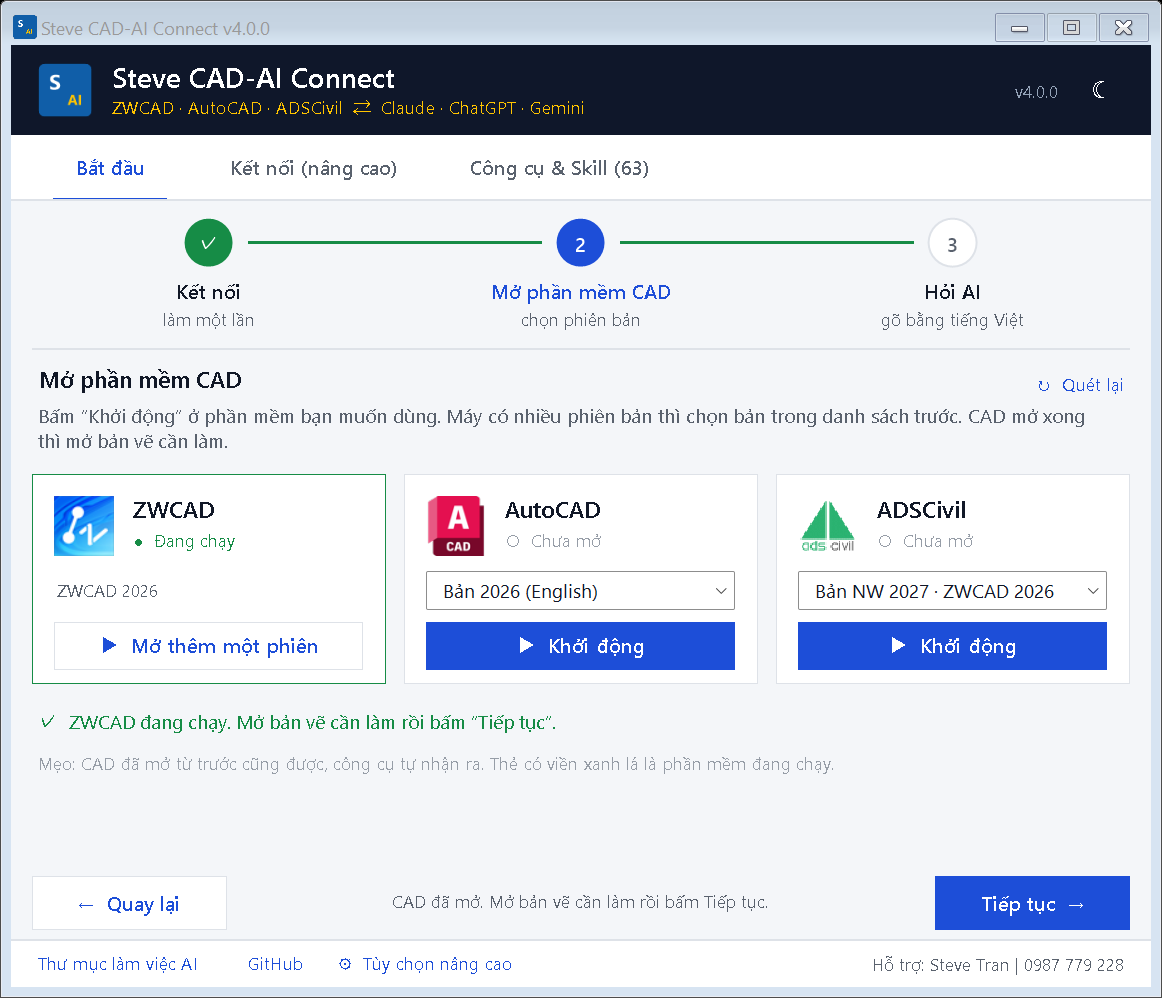
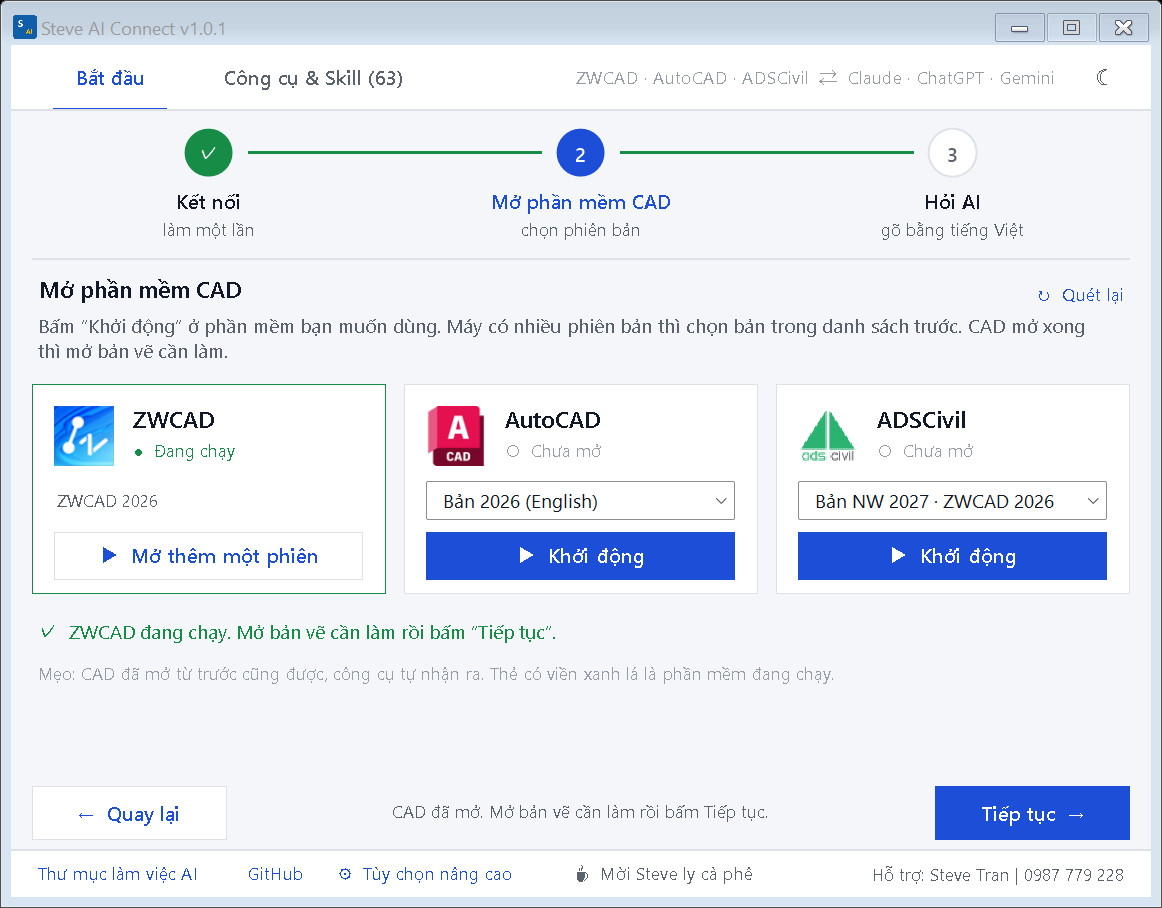
Steve AI Connect v1.0.1: new name, no repeated title, coffee QR fix
- Rename the product from "Steve CAD-AI Connect" to "Steve AI Connect" (window, shortcuts,
  Apps entry, Setup exe, README, NOTICE). Old shortcuts are removed on update.
- Drop the in-window header band: the Windows title bar shows the name and version
  (tinted navy on Windows 11); the tagline and light/dark switch move to the tab bar.
- Fix: the "Mời Steve ly cà phê" link did not open the QR dialog.
- Dialog screenshots now go through the real ShowDialog path.

diff --git a/build/SteveCADSetup.cs b/build/SteveCADSetup.cs
@@ -1,4 +1,4 @@
-// Steve CAD-AI Connect - Setup.exe
+// Steve AI Connect - Setup.exe
 // One file to send to other people. It carries the whole tool (payload.zip, embedded resource),
 // unpacks it into %LOCALAPPDATA%\SteveCADConnect\tool (per user, no admin rights) and opens the tool,
 // which starts on step 1 "Kết nối". Built by build\build-exe.ps1 with the C# compiler that ships with
@@ -14,10 +14,10 @@ using System.Reflection;
 using System.Threading;
 using System.Windows.Forms;
 
-[assembly: AssemblyTitle("Steve CAD-AI Connect")]
-[assembly: AssemblyDescription("Cài đặt Steve CAD-AI Connect: nối ZWCAD, AutoCAD, ADSCivil với Claude, ChatGPT, Gemini")]
+[assembly: AssemblyTitle("Steve AI Connect")]
+[assembly: AssemblyDescription("Cài đặt Steve AI Connect: nối ZWCAD, AutoCAD, ADSCivil với Claude, ChatGPT, Gemini")]
 [assembly: AssemblyCompany("Steve Tran")]
-[assembly: AssemblyProduct("Steve CAD-AI Connect")]
+[assembly: AssemblyProduct("Steve AI Connect")]
 [assembly: AssemblyCopyright("© 2026 Steve Tran · 0987 779 228")]
 [assembly: AssemblyVersion("@VERSION@.0")]
 [assembly: AssemblyFileVersion("@VERSION@.0")]
@@ -62,8 +62,8 @@ static class Program
         catch (Exception ex)
         {
             if (splash != null) splash.Hide();
-            MessageBox.Show("Không cài được Steve CAD-AI Connect:\n\n" + ex.Message + "\n\nCần hỗ trợ: " + Contact,
-                "Steve CAD-AI Connect", MessageBoxButtons.OK, MessageBoxIcon.Error);
+            MessageBox.Show("Không cài được Steve AI Connect:\n\n" + ex.Message + "\n\nCần hỗ trợ: " + Contact,
+                "Steve AI Connect", MessageBoxButtons.OK, MessageBoxIcon.Error);
             return 1;
         }
         finally { if (splash != null) splash.Close(); }
@@ -105,11 +105,11 @@ static class Program
     {
         var f = new Form();
         f.FormBorderStyle = FormBorderStyle.None; f.StartPosition = FormStartPosition.CenterScreen;
-        f.ShowInTaskbar = true; f.Text = "Steve CAD-AI Connect"; f.TopMost = true;
+        f.ShowInTaskbar = true; f.Text = "Steve AI Connect"; f.TopMost = true;
         f.BackColor = Color.FromArgb(15, 23, 42); f.AutoScaleMode = AutoScaleMode.Dpi;
         f.ClientSize = new Size(440, 120);
         try { f.Icon = Icon.ExtractAssociatedIcon(Assembly.GetExecutingAssembly().Location); } catch { }
-        var t1 = new Label(); t1.Text = "Steve CAD-AI Connect"; t1.ForeColor = Color.White; t1.Font = new Font("Segoe UI Semibold", 14f);
+        var t1 = new Label(); t1.Text = "Steve AI Connect"; t1.ForeColor = Color.White; t1.Font = new Font("Segoe UI Semibold", 14f);
         t1.SetBounds(24, 18, 400, 32); t1.BackColor = Color.Transparent;
         var t2 = new Label(); t2.Text = "Đang cài đặt… cửa sổ chính sẽ tự mở sau vài giây."; t2.ForeColor = Color.FromArgb(255, 196, 0);
         t2.Font = new Font("Segoe UI", 10f); t2.SetBounds(26, 56, 400, 24); t2.BackColor = Color.Transparent;

diff --git a/server/stevecad/ifc.py b/server/stevecad/ifc.py
@@ -362,7 +362,7 @@ def export_ifc(path: str, schema: str = "IFC4", handles: list[str] | None = None
     now = datetime.datetime.now().strftime("%Y-%m-%dT%H:%M:%S")
     head = ["ISO-10303-21;", "HEADER;",
             "FILE_DESCRIPTION(('ViewDefinition [DesignTransferView]'),'2;1');",
-            f"FILE_NAME({s_(os.path.basename(path))},'{now}',({s_(author or 'Steve CAD-AI Connect')}),(''),"
+            f"FILE_NAME({s_(os.path.basename(path))},'{now}',({s_(author or 'Steve AI Connect')}),(''),"
             f"'Steve CAD MCP {__version__}','Steve CAD MCP {__version__}','');",
             f"FILE_SCHEMA(('{sch}'));", "ENDSEC;", "DATA;"]
     body_lines = [f"#{i + 1}= {ln}" for i, ln in enumerate(st.lines)]

diff --git a/README.md b/README.md
@@ -1,16 +1,16 @@
-# Steve CAD-AI Connect
+# Steve AI Connect
 
 **Kết nối ZWCAD · AutoCAD · ADSCivil với Claude · ChatGPT · Gemini bằng một cú bấm.**
 
 Sau khi kết nối, bạn chỉ cần trò chuyện với trợ lý AI và nó sẽ **điều khiển trực tiếp phần mềm CAD đang mở**: đọc layer và đối tượng, vẽ, sửa, chèn block, chạy lệnh, tra tiêu chuẩn TCVN (với ADSCivil)... Việc kết nối dùng **MCP** (Model Context Protocol).
 
-![Steve CAD-AI Connect](docs/screenshot.png)
+![Steve AI Connect](docs/screenshot.png)
 
 > **Liên hệ hỗ trợ:** Steve Tran | 0987 779 228
 
 ## Dùng thế nào
 
-1. **Tải về:** vào trang [**Releases**](https://github.com/steve-trantn/Steve-AI-Connect/releases/latest), tải file **`Steve-CAD-AI-Connect-Setup-*.exe`** (một file duy nhất, có thể gửi qua Zalo, email, USB).
+1. **Tải về:** vào trang [**Releases**](https://github.com/steve-trantn/Steve-AI-Connect/releases/latest), tải file **`Steve-AI-Connect-Setup-*.exe`** (một file duy nhất, có thể gửi qua Zalo, email, USB).
 2. **Bấm đúp file exe.** Công cụ tự cài (không cần quyền admin), tạo shortcut trên Desktop rồi mở ra ở thẻ **Bắt đầu**, dẫn bạn đi qua 3 bước. Bước nào xong có dấu ✓ xanh, lần sau mở công cụ sẽ vào thẳng bước còn dang dở.
    - **Bước 1 · Kết nối** (làm một lần): công cụ tự tìm phần mềm CAD và trợ lý AI có trên máy. Bấm **Kết nối tự động**. Máy chưa có trợ lý AI thì công cụ chỉ chỗ tải Claude Code.
    - **Bước 2 · Mở phần mềm CAD:** chọn phiên bản (máy có nhiều bản, ví dụ ADSCivil 2026 và 2027, thì chọn trong danh sách xổ xuống) rồi bấm **Khởi động**. CAD mở xong, công cụ tự chuyển sang bước 3.
@@ -38,13 +38,13 @@ Câu hỏi để thử (ZWCAD, AutoCAD):
 | IFC | "Đặt cống về toạ độ X=..., Y=..., góc 30°, đặt layer theo tên cống và lý trình rồi xuất IFC 4.3." |
 | PDF | "Đọc bản vẽ cống trong D:\cong.pdf và dựng mô hình 3D." |
 
-Kết nối xong có thể đóng công cụ, khởi động lại máy cũng không mất kết nối. Công cụ tạo shortcut **Steve CAD-AI Connect** trên Desktop và trong Start menu để mở lại khi cần.
+Kết nối xong có thể đóng công cụ, khởi động lại máy cũng không mất kết nối. Công cụ tạo shortcut **Steve AI Connect** trên Desktop và trong Start menu để mở lại khi cần.
 
 | Muốn | Làm |
 |---|---|
 | Ngắt kết nối | Thẻ **Kết nối (nâng cao)**: tích chọn mục muốn ngắt, bấm **Ngắt kết nối** |
 | Kiểm tra | Mở phần mềm CAD, bấm **Kiểm tra**: công cụ đọc thử danh sách layer của bản vẽ đang mở |
-| Gỡ bỏ | **Tùy chọn nâng cao → Gỡ cài đặt**, hoặc chạy `Uninstall.cmd`, hoặc vào *Settings → Apps → Steve CAD-AI Connect → Uninstall* |
+| Gỡ bỏ | **Tùy chọn nâng cao → Gỡ cài đặt**, hoặc chạy `Uninstall.cmd`, hoặc vào *Settings → Apps → Steve AI Connect → Uninstall* |
 
 > File exe chưa có chữ ký số nên Windows SmartScreen có thể cảnh báo "Windows protected your PC": bấm **More info → Run anyway** (Thông tin thêm → Vẫn chạy).
 
@@ -106,7 +106,7 @@ ChatGPT bản web không dùng được vì chỉ nhận MCP server từ xa qua 
 ## Dòng lệnh (cho IT, cài hàng loạt)
 
 ```bat
-Steve-CAD-AI-Connect-Setup-v4.0.0.exe -Connect                                           :: cai + ket noi, khong mo giao dien
+Steve-AI-Connect-Setup-v4.0.0.exe -Connect                                           :: cai + ket noi, khong mo giao dien
 powershell -ExecutionPolicy Bypass -File app\SteveCADConnect.ps1 -Connect                 :: moi CAD + moi tro ly co tren may
 powershell -ExecutionPolicy Bypass -File app\SteveCADConnect.ps1 -Connect -Cad zwcad -Client codex,claude -Test
 powershell -ExecutionPolicy Bypass -File app\SteveCADConnect.ps1 -Connect -Ads2026 -GeminiKey <key>
@@ -135,7 +135,7 @@ powershell -ExecutionPolicy Bypass -File app\SteveCADConnect.ps1 -Uninstall
 ## Cấu trúc
 
 ```
-Steve CAD-AI Connect.cmd    bấm đúp để mở công cụ
+Steve AI Connect.cmd    bấm đúp để mở công cụ
 Uninstall.cmd               gỡ toàn bộ
 LICENSE, NOTICE             giấy phép Apache 2.0 và thông tin ghi nguồn
 app/                        SteveCADConnect.ps1 (dòng lệnh), gui.ps1 (giao diện), core.ps1, SteveAI.ps1 (mở cửa sổ AI), cadmenu.ps1 (tab ribbon)
@@ -144,7 +144,7 @@ CAD/AutoCAD/                lời dặn AI cho AutoCAD
 server/                     Steve CAD MCP (ZWCAD, AutoCAD)
 CAD/ADSCivil/               lời dặn AI, tự nạp ADSCivil 2026 (ads-ai-autoload.lsp, install-2026-autoload.ps1)
 templates/                  lời dặn chung, SteveAI.lsp (lệnh AI, STEVEAI trong CAD), launcher Gemini
-build/                      build-exe.ps1 + SteveCADSetup.cs: đóng gói thành dist\Steve-CAD-AI-Connect-Setup-<version>.exe
+build/                      build-exe.ps1 + SteveCADSetup.cs: đóng gói thành dist\Steve-AI-Connect-Setup-<version>.exe
 ```
 
 ## Liên hệ
@@ -155,12 +155,12 @@ Báo lỗi hoặc góp ý: gọi trực tiếp, hoặc mở [Issue](https://gith
 
 ## Bản quyền và ghi nguồn
 
-Steve CAD-AI Connect (gồm Steve AI và Steve CAD MCP trong thư mục `server/`) © 2026 **Steve Tran**, phát hành theo giấy phép [Apache 2.0](LICENSE).
+Steve AI Connect (gồm Steve AI và Steve CAD MCP trong thư mục `server/`) © 2026 **Steve Tran**, phát hành theo giấy phép [Apache 2.0](LICENSE).
 
 Bạn được dùng miễn phí, sửa và chia sẻ lại, kể cả trong công việc thương mại, **với điều kiện ghi nguồn**: giữ nguyên file [NOTICE](NOTICE) trong mọi bản sao hoặc bản sửa, và ghi rõ tác giả khi giới thiệu. Dòng ghi nguồn có thể dán:
 
 ```text
-Dựa trên Steve CAD-AI Connect của Steve Tran - https://github.com/steve-trantn/Steve-AI-Connect (giấy phép Apache 2.0).
+Dựa trên Steve AI Connect của Steve Tran - https://github.com/steve-trantn/Steve-AI-Connect (giấy phép Apache 2.0).
 ```
 
 Trong công cụ cũng có sẵn: **⚙ Tùy chọn nâng cao → Giới thiệu & ghi nguồn → Chép thông tin ghi nguồn**. Trích dẫn trong tài liệu, báo cáo: dùng nút **Cite this repository** ở trang GitHub (file [CITATION.cff](CITATION.cff)).

diff --git a/server/README.md b/server/README.md
@@ -7,7 +7,7 @@ python run.py --cad zwcad   [--progid ZWCAD.Application.2026] [--allow-script]
 python run.py --cad autocad [--allow-script]
 ```
 
-Thư viện cần: `requirements.txt` (mcp, pywin32, pillow, pdfminer.six, pypdfium2). Steve CAD-AI Connect tự cài và đăng ký server cho các trợ lý AI.
+Thư viện cần: `requirements.txt` (mcp, pywin32, pillow, pdfminer.six, pypdfium2). Steve AI Connect tự cài và đăng ký server cho các trợ lý AI.
 
 ## Thiết kế
 
@@ -20,7 +20,7 @@ Thư viện cần: `requirements.txt` (mcp, pywin32, pillow, pdfminer.six, pypdf
 - **Một tool sửa bản vẽ = một bước UNDO.** Không gom khi người dùng đang dở lệnh hoặc UNDO đang tắt.
 - **Lọc trong CAD:** lọc theo loại hoặc layer dùng selection set có bộ lọc DXF, nên CAD tự lọc và chỉ đối tượng khớp mới qua COM. Gọi COM sang ZWCAD tốn khoảng 4 ms mỗi lần, nên cách này nhanh hơn hàng chục lần so với duyệt từng đối tượng.
 - **Gắn nhãn tool:** chỉ đọc (`readOnlyHint`) hoặc phá huỷ (`destructiveHint`), để trợ lý AI tự hỏi người dùng trước khi xoá hoặc lưu.
-- **`run_script` mặc định tắt:** chỉ bật bằng `--allow-script` hoặc ô tích trong Steve CAD-AI Connect.
+- **`run_script` mặc định tắt:** chỉ bật bằng `--allow-script` hoặc ô tích trong Steve AI Connect.
 - Thông báo lỗi bằng tiếng Việt.
 - **Chữ TCVN3/VNI:** chữ trong bản vẽ dùng font cũ (.VnTime, VNI-Times) được giải mã sang Unicode, để AI đọc được.
 - **Ảnh chụp đúng kích thước** trên màn hình đặt tỉ lệ 125% hay 150% (server khai báo DPI-aware).
@@ -68,7 +68,7 @@ Khối không còn đúng công thức được xuất dạng hộp bao (`Boundi
 
 ## Skill
 
-Mỗi skill là một tệp `skills/<tên>/SKILL.md`, viết quy trình nhiều bước cho AI. Server đưa skill ra dưới dạng MCP prompt và qua tool `get_skill`. Steve CAD-AI Connect còn chép skill vào `Steve-CAD-AI\.claude\skills` để Claude Code dùng như skill gốc. Thêm skill mới chỉ cần thêm một thư mục.
+Mỗi skill là một tệp `skills/<tên>/SKILL.md`, viết quy trình nhiều bước cho AI. Server đưa skill ra dưới dạng MCP prompt và qua tool `get_skill`. Steve AI Connect còn chép skill vào `Steve-CAD-AI\.claude\skills` để Claude Code dùng như skill gốc. Thêm skill mới chỉ cần thêm một thư mục.
 
 ## Tool
 

diff --git a/templates/AGENTS.base.md b/templates/AGENTS.base.md
@@ -1,4 +1,4 @@
-# Trợ lý CAD (Steve CAD-AI Connect)
+# Trợ lý CAD (Steve AI Connect)
 
 Bạn nối với **phần mềm CAD đang mở trên máy người dùng** qua các MCP server liệt kê bên dưới. Luôn trả lời bằng tiếng Việt, trừ khi người dùng viết bằng ngôn ngữ khác.
 
@@ -10,4 +10,4 @@ Bạn nối với **phần mềm CAD đang mở trên máy người dùng** qua 
 - Sau khi sửa, nhắc người dùng có thể hoàn tác bằng lệnh `UNDO`.
 - Đơn vị bản vẽ thường là mm (bản vẽ kỹ thuật) hoặc m (bản đồ, địa hình). Nếu chưa rõ, hỏi trước khi vẽ theo kích thước.
 - Nhiều server cùng được nối thì chọn đúng server theo phần mềm người dùng nhắc tới. Nếu không chắc, hỏi lại.
-- Lỗi kết nối, cài đặt Steve CAD-AI Connect hoặc cần hỗ trợ thêm: hướng dẫn người dùng liên hệ **Steve Tran, 0987 779 228**.
+- Lỗi kết nối, cài đặt Steve AI Connect hoặc cần hỗ trợ thêm: hướng dẫn người dùng liên hệ **Steve Tran, 0987 779 228**.
